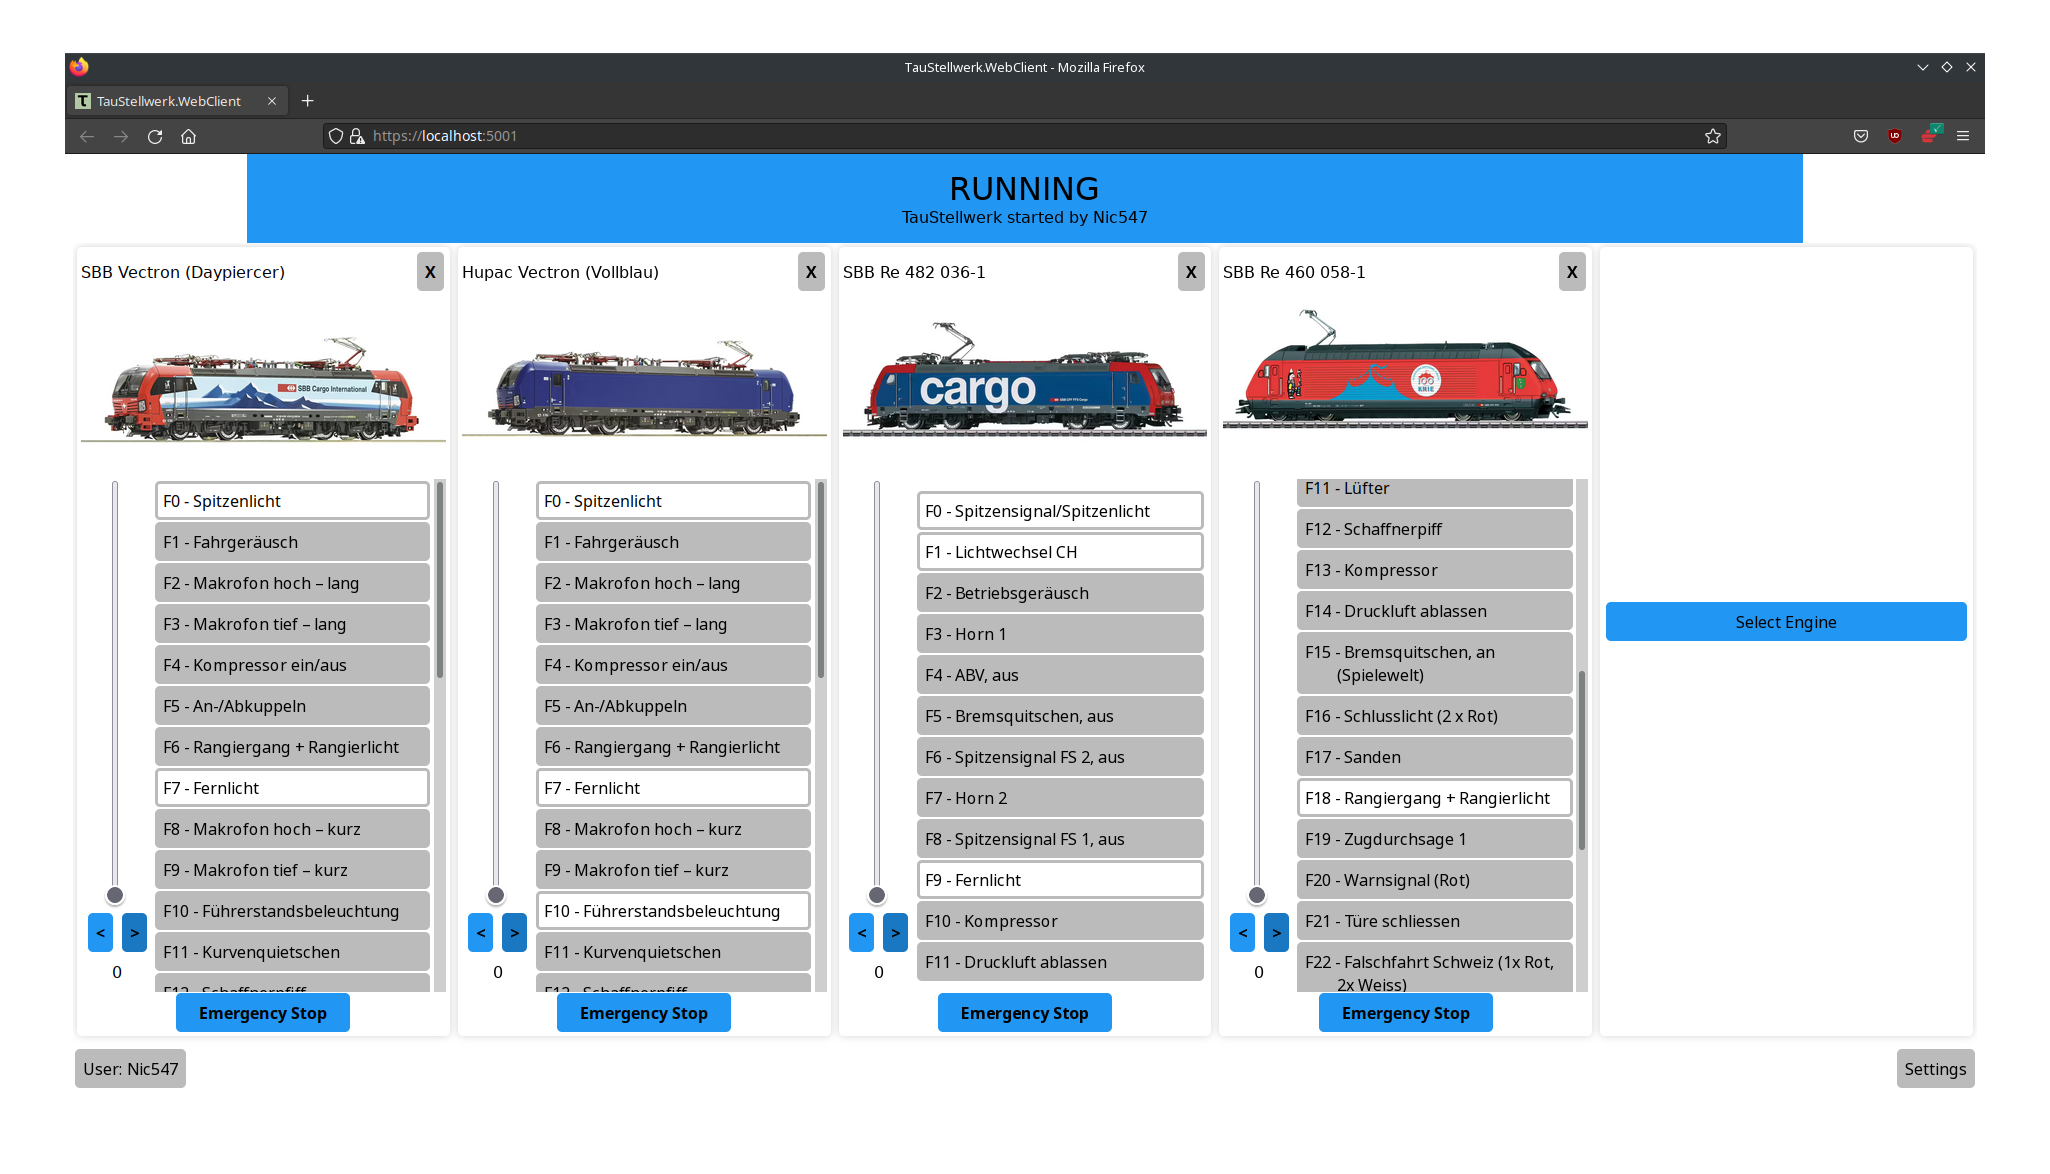
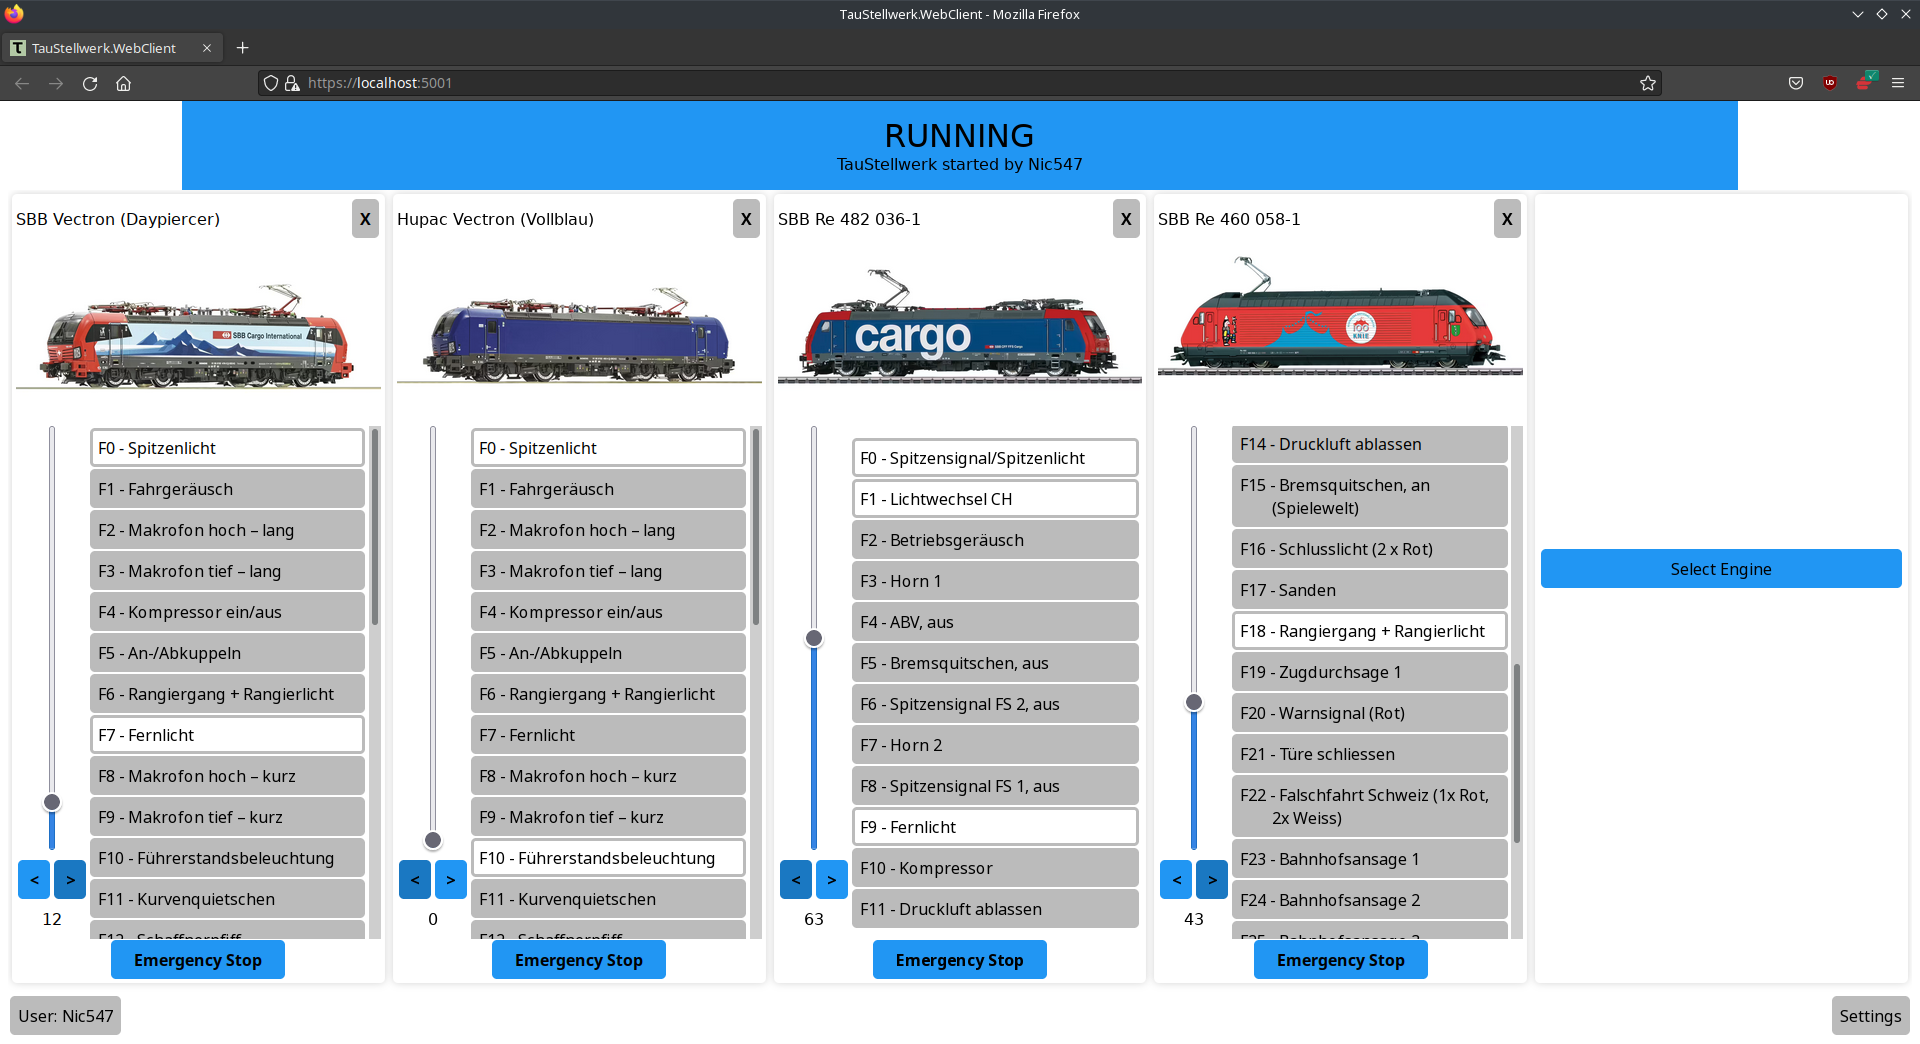
[WebClient] Properly center speed slider
Also adjust direction buttons to be wider (as wide as possible).
Update the screenshots with the new images.
Resolve #244

diff --git a/src/TauStellwerk.WebClient/wwwroot/style/style.css b/src/TauStellwerk.WebClient/wwwroot/style/style.css
@@ -86,27 +86,9 @@
 	height: calc(var(--engine-controller-width) / 2);
 }
 
-	.ec-grid-image > img {
-		width: var(--engine-controller-width);
-		height: calc(var(--engine-controller-width) / 2);
-	}
-
-.ec-grid-slider {
-	grid-area: slider;
-}
-
-.ec-grid-slider > input {
-	-webkit-appearance: slider-vertical; /* Ensures the throttle is display vertical in Chrome and Edge (Chrome) */
-	width: 4em;
-	height: 98%
-}
-
-.ec-grid-direction {
-	grid-area: direction;
-}
-
-.ec-grid-speed {
-	grid-area: speed;
+.ec-grid-image > img {
+	width: var(--engine-controller-width);
+	height: calc(var(--engine-controller-width) / 2);
 }
 
 .ec-grid-functions {

diff --git a/src/TauStellwerk.WebClient/Pages/EngineController.razor.css b/src/TauStellwerk.WebClient/Pages/EngineController.razor.css
@@ -7,3 +7,27 @@
     padding-left: 20px;
     padding-right: 20px;
 }
+
+.ec-grid-direction {
+    grid-area: direction;
+    display: flex;
+}
+
+.ec-grid-direction > button {
+    flex: auto;
+}
+
+.ec-grid-slider {
+    grid-area: slider;
+}
+
+.ec-grid-slider > input {
+    -webkit-appearance: slider-vertical; /* Ensures the throttle is display vertical in Chrome and Edge (Chrome) */
+    width: 100%;
+    margin: auto;
+    height: 98%
+}
+
+.ec-grid-speed {
+    grid-area: speed;
+}
